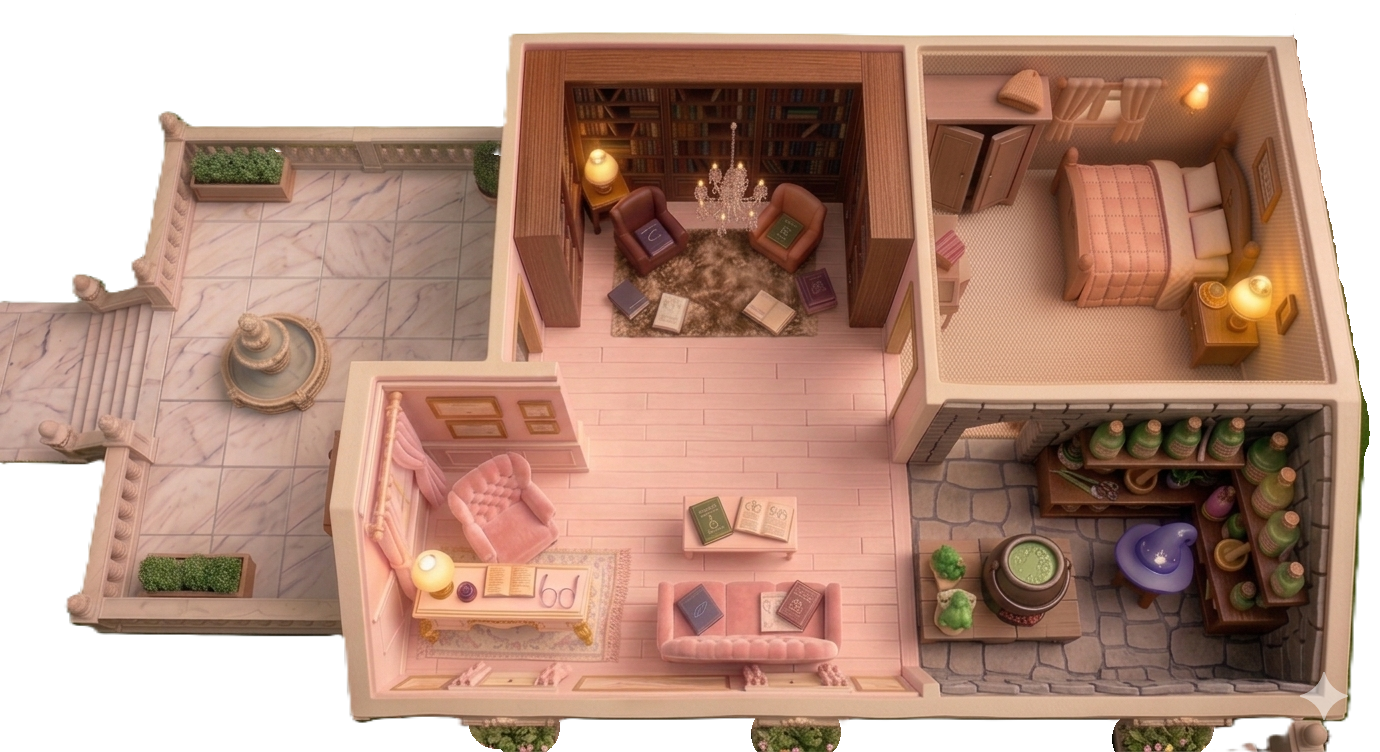
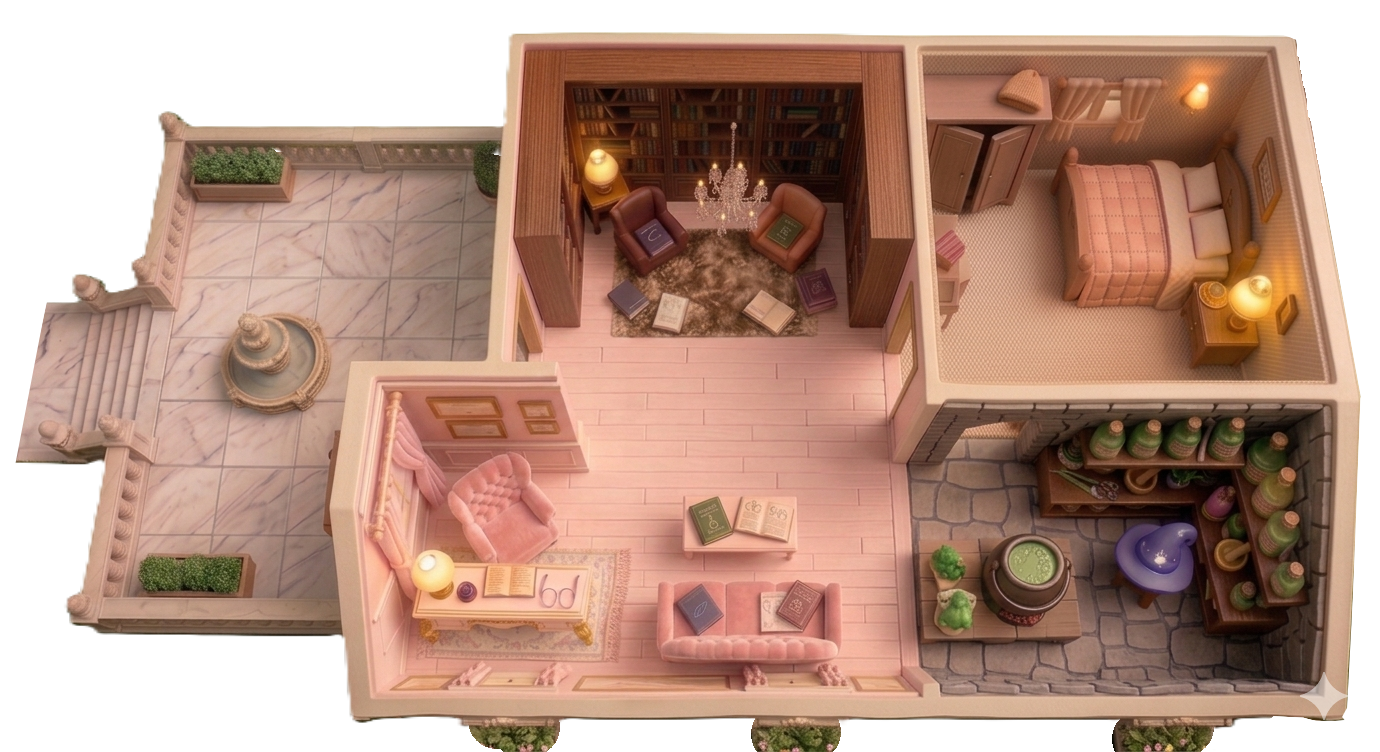
Salas implementadas con nueva interfaz y sin colision de estilosgit add .!

diff --git a/resources/css/componentes/salas.css b/resources/css/componentes/salas.css
@@ -1,4 +1,108 @@
-/* --- 1. Estructura Base (Igual para todas) --- */
+/* =======================================================
+   🏠 1. HOGAR DE CONCENTRACIÓN (Menú del Mapa)
+   ======================================================= */
+
+/* CORRECCIÓN CRÍTICA: Aquí tenías ".contenedor-mapa-casa .titulo-patata" 
+   mezclado con los estilos del contenedor. Ahora está separado. */
+.contenedor-mapa-casa {
+    background: transparent !important;
+    border: none !important;
+    height: 100vh;
+    width: 100%;
+    overflow: hidden;
+    display: flex;
+    flex-direction: column;
+    align-items: center;
+    justify-content: center;
+    position: relative;
+    padding: 0 !important;
+}
+
+/* Velo oscuro exclusivo para la casa */
+.contenedor-mapa-casa::before {
+    content: "";
+    position: fixed;
+    top: 0;
+    left: 0;
+    width: 100%;
+    height: 100%;
+    background: rgba(56, 35, 0, 0.7) !important;
+    z-index: -1;
+}
+
+/* --- TÍTULOS FLOTANTES --- */
+.contenedor-mapa-casa .caja-bienvenida {
+    background: transparent !important;
+    margin-bottom: -20px;
+    /* Sube la casa hacia el texto */
+    position: relative;
+    z-index: 2;
+}
+
+.contenedor-mapa-casa .titulo-patata {
+    color: #ffffff !important;
+    font-size: 1.6rem;
+    font-weight: 700;
+    text-shadow: 2px 2px 6px rgba(0, 0, 0, 0.8);
+    margin: 0;
+}
+
+/* CORRECCIÓN: Añadido .contenedor-mapa-casa para que no pinte de blanco 
+   los textos del menú principal de patatas */
+.contenedor-mapa-casa .caja-bienvenida p,
+.contenedor-mapa-casa .subtitulo-menu {
+    color: #e0e0e0 !important;
+    font-size: 0.9rem;
+    margin: 0;
+    text-shadow: 1px 1px 4px rgba(0, 0, 0, 0.8);
+}
+
+/* --- LA CASA (TAMAÑO COMPLETO) --- */
+.mapa-interactivo-wrapper {
+    position: relative;
+    display: inline-block;
+    background: transparent !important;
+    width: 95%;
+    max-width: 1200px;
+    margin: 0 auto;
+    transition: transform 0.4s cubic-bezier(0.175, 0.885, 0.32, 1.275);
+    z-index: 1;
+}
+
+.mapa-interactivo-wrapper:hover {
+    transform: scale(1.02);
+}
+
+.img-casa-mapeada {
+    width: 100%;
+    height: auto;
+    max-height: 75vh;
+    /* Evita el scroll vertical */
+    object-fit: contain;
+    display: block;
+    margin: 0 auto;
+    /* Efecto pegatina blanco fino */
+    filter: drop-shadow(2px 2px 0px #ffffff) drop-shadow(-2px -2px 0px #ffffff) drop-shadow(2px -2px 0px #ffffff) drop-shadow(-2px 2px 0px #ffffff) drop-shadow(0 10px 20px rgba(0, 0, 0, 0.4));
+}
+
+/* Botón volver exclusivo de la casa */
+.contenedor-mapa-casa .enlace-volver {
+    position: relative;
+    z-index: 2;
+    color: white !important;
+    font-size: 0.8rem;
+    background: rgba(255, 255, 255, 0.1);
+    padding: 8px 15px;
+    border-radius: 8px;
+    margin-top: 10px;
+    text-decoration: none;
+    display: inline-block;
+}
+
+/* =======================================================
+   ⏱ 2. PANTALLAS DE ESTUDIO (Salas individuales)
+   ======================================================= */
+
 .pantalla-estudio {
     min-height: 100vh;
     display: flex;
@@ -6,11 +110,9 @@
     align-items: center;
     justify-content: center;
     transition: background 0.5s ease;
-    /* Para que el cambio sea suave */
 }
 
 .cronometro-circular {
-    /* El estilo que ya teníamos en layout.css, pero aquí */
     width: 280px;
     height: 280px;
     border-radius: 50%;
@@ -20,26 +122,15 @@
     backdrop-filter: blur(10px);
 }
 
-/* --- 2. Personalización por Sala --- */
-
 /* DESPACHO ROSA 🌸 */
 .sala-despacho-rosa {
-    /* La barra inicial / significa "empieza a buscar desde la carpeta public" */
     background-image: url('/img/fondo/despacho-rosa.jpg') !important;
     background-size: cover !important;
     background-position: center !important;
-    background-repeat: no-repeat !important;
-    height: 100vh;
-    width: 100%;
 }
 
 .sala-despacho-rosa .cronometro-circular {
-    display: flex;
-    flex-direction: column;
-    align-items: center;
-    justify-content: center;
     border: 8px solid #fce7f3;
-    /* Rosa pastel */
     background: rgba(255, 255, 255, 0.4);
 }
 
@@ -51,7 +142,11 @@
 
 .sala-biblioteca .cronometro-circular {
     border: 8px solid #b87333;
-    /* Color cobre/madera */
     background: rgba(45, 26, 18, 0.6);
     color: #fffaf0;
+}
+
+area {
+    outline: none;
+    cursor: pointer;
 }

diff --git a/vite.config.js b/vite.config.js
@@ -9,6 +9,7 @@ export default defineConfig({
                 'resources/css/app.css',
                 'resources/css/componentes/libros.css', // <-- ¡AÑADE ESTA LÍNEA!
                 'resources/css/componentes/estanteria.css',
+                'resources/css/componentes/salas.css',
                 'resources/js/app.js',
             ],
             refresh: true,

diff --git a/resources/views/salas/index.blade.php b/resources/views/salas/index.blade.php
@@ -1,51 +1,40 @@
 @extends('plantilla.app')
 
 @section('content')
-<div class="contenedor-menu-principal">
+<div class="contenedor-mapa-casa" style="text-align: center;">
     <div class="caja-bienvenida">
-        <h1 class="titulo-patata">Salas de Concentración ⏱</h1>
-        <p>Selecciona un ambiente para empezar tu sesión de estudio.</p>
+        <h1 class="titulo-patata">🏠 Mi Hogar de Concentración</h1>
+        <p>Haz clic en una estancia para empezar tu sesión.</p>
     </div>
 
-    <div class="grid-salas">
-        {{-- Sala 1 --}}
-        <a href="{{ route('salas.show', 'despacho-rosa') }}" class="tarjeta-sala">
-            <div class="emoji-sala">🌸</div>
-            <h3>Despacho Rosa</h3>
-            <p>Un ambiente dulce y tranquilo.</p>
-        </a>
+    <div class="mapa-interactivo-wrapper" style="display: inline-block; margin-top: 20px; background: white; padding: 15px; border-radius: 20px; box-shadow: 0 10px 30px rgba(0,0,0,0.1);">
 
-        {{-- Sala 2 --}}
-        <a href="{{ route('salas.show', 'biblioteca') }}" class="tarjeta-sala">
-            <div class="emoji-sala">📚</div>
-            <h3>Biblioteca</h3>
-            <p>Silencio absoluto entre libros.</p>
-        </a>
+        <img src="{{ asset('img/fondo/casa.png') }}" usemap="#image-map" class="img-casa-mapeada">
 
-        {{-- Sala 3 --}}
-        <a href="{{ route('salas.show', 'dormitorio') }}" class="tarjeta-sala">
-            <div class="emoji-sala">🛏</div>
-            <h3>Dormitorio</h3>
-            <p>Para un estudio más relajado.</p>
-        </a>
+        <map name="image-map">
+            <area alt="Despacho Rosa" title="Ir al Despacho Rosa 🌸" href="{{ route('salas.show', 'despacho-rosa') }}" coords="369,378,351,511,371,700,919,698,919,688,903,672,891,467,926,402,923,384" shape="poly">
 
-        {{-- Sala 4 --}}
-        <a href="{{ route('salas.show', 'despacho-neutro') }}" class="tarjeta-sala">
-            <div class="emoji-sala">🖥</div>
-            <h3>Despacho Neutro</h3>
-            <p>Cero distracciones, foco total.</p>
-        </a>
+            <area alt="Botica" title="Ir a la Botica 🧹" href="{{ route('salas.show', 'botica') }}" coords="948,402,907,465,919,665,938,685,940,697,1322,697,1336,404" shape="poly">
 
-        {{-- Sala 5--}}
-        <a href="{{ route('salas.show', 'botica') }}" class="tarjeta-sala">
-            <div class="emoji-sala">🧹</div>
-            <h3>Botica</h3>
-            <p>Con tu caldero</p>
-        </a>
+            <area alt="Biblioteca" title="Ir a la Biblioteca 📚" href="{{ route('salas.show', 'biblioteca') }}" coords="905,46,525,44,506,360,921,366" shape="poly">
+
+            <area alt="Dormitorio" title="Ir al Dormitorio 🛏" href="{{ route('salas.show', 'dormitorio') }}" coords="919,46,1274,46,1336,385,940,385" shape="poly">
+
+            <area alt="Jardín" title="Ir al Jardín 🌿" href="{{ route('salas.show', 'jardin') }}" coords="504,141,488,361,349,361,329,510,339,603,100,597,130,444,158,282,184,139" shape="poly">
+        </map>
     </div>
 
-    <div style="margin-top: 30px; text-align: center;">
-        <a href="/" class="enlace-volver">⬅ Volver al menú</a>
+    <div style="margin-top: 30px;">
+        <a href="/" class="enlace-volver">⬅ Volver al inicio</a>
     </div>
 </div>
+
+{{-- Script para que el mapa funcione en cualquier tamaño de pantalla --}}
+<script src="https://cdnjs.cloudflare.com/ajax/libs/image-map-resizer/1.0.10/js/imageMapResizer.min.js"></script>
+<script>
+    document.addEventListener('DOMContentLoaded', function() {
+        imageMapResize();
+    });
+</script>
+
 @endsection
